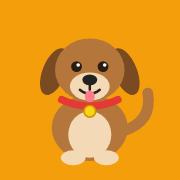
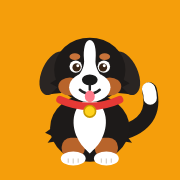
Kvidova škola: Kvido ako bernský salašník (obrázky, ikony, og-image)
Claude-Session: https://claude.ai/code/session_01L2yYueiUDEqLm6arqJrsXt

Changed region(s): [[0.1944, 0.1944, 0.8889, 0.9444]]

diff --git a/kvido/index.html b/kvido/index.html
@@ -316,15 +316,17 @@ const pl = (n, one, few, many) => n === 1 ? one : n >= 2 && n <= 4 ? few : many;
 
 /* ---------- save ---------- */
 const KEY = 'kvidova-skola-v1';
-const DEF = { sound: true, bones: 0, fur: 'brown', owned: ['col_red', 'hat_none', 'gl_none', 'toy_none', 'bed_none'],
+const DEF = { sound: true, bones: 0, fur: 'berner', v2: true, owned: ['col_red', 'hat_none', 'gl_none', 'toy_none', 'bed_none'],
   eq: { col: 'col_red', hat: 'hat_none', gl: 'gl_none', toy: 'toy_none', bed: 'bed_none' }, wins: {}, lvl: {} };
 let S;
 try { S = Object.assign(JSON.parse(JSON.stringify(DEF)), JSON.parse(localStorage.getItem(KEY)) || {}); } catch (e) { S = JSON.parse(JSON.stringify(DEF)); }
+if (!S.v2) { S.fur = 'berner'; S.v2 = true; } // Kvido is a Bernese mountain dog
 const save = () => { try { localStorage.setItem(KEY, JSON.stringify(S)); } catch (e) {} };
 const level = g => S.lvl[g] || 1;
 
 /* ---------- Kvido drawing ---------- */
 const FURS = {
+  berner: { name: 'Salašník', berner: true, fur: '#1d1a19', dark: '#1d1a19', light: '#ffffff' },
   brown: { name: 'Hnědý', fur: '#b5763c', dark: '#7a4a22', light: '#f3d9b5' },
   golden: { name: 'Zlatý', fur: '#e8b04b', dark: '#c4882a', light: '#fff0cf' },
   black: { name: 'Černý', fur: '#3a3330', dark: '#1f1a18', light: '#d9c7b2' },
@@ -371,9 +373,10 @@ function dogSVG(eq = S.eq, furKey = S.fur, cls = '') {
   if (eq.hat === 'hat_party') hat = `<polygon points="100,0 82,46 118,46" fill="#a855f7"/><circle cx="100" cy="2" r="6" fill="#ffd21a"/><circle cx="94" cy="30" r="3" fill="#fff"/><circle cx="104" cy="18" r="3" fill="#ffd21a"/><circle cx="106" cy="38" r="3" fill="#fff"/>`;
   if (eq.hat === 'hat_crown') hat = `<polygon points="74,48 74,20 88,34 100,14 112,34 126,20 126,48" fill="#ffcc1a" stroke="#c99a00" stroke-width="3" stroke-linejoin="round"/><circle cx="100" cy="38" r="4" fill="#e53935"/>`;
   if (eq.hat === 'hat_bow') hat = `<g transform="translate(138 44) rotate(15)"><path d="M0 0 L-16 -11 L-16 11 Z" fill="#ec4899"/><path d="M0 0 L16 -11 L16 11 Z" fill="#ec4899"/><circle r="5" fill="#be185d"/></g>`;
-  if (eq.gl === 'gl_round') gl = `<g fill="rgba(255,255,255,.25)" stroke="#2b2b2b" stroke-width="3.5"><circle cx="84" cy="72" r="13"/><circle cx="116" cy="72" r="13"/></g><path d="M97 72 L103 72" stroke="#2b2b2b" stroke-width="3.5"/>`;
-  if (eq.gl === 'gl_sun') gl = `<path d="M68 64 H98 V76 Q98 86 84 86 Q68 86 68 74Z M102 64 H132 V74 Q132 86 116 86 Q102 86 102 76Z" fill="#1d1d1d"/><path d="M98 68 H102" stroke="#1d1d1d" stroke-width="4"/><path d="M74 68 L82 68" stroke="rgba(255,255,255,.6)" stroke-width="3"/>`;
+  if (eq.gl === 'gl_round') gl = `<g fill="rgba(255,255,255,.25)" stroke="#e53935" stroke-width="3.5"><circle cx="84" cy="72" r="13"/><circle cx="116" cy="72" r="13"/></g><path d="M97 72 L103 72" stroke="#e53935" stroke-width="3.5"/>`;
+  if (eq.gl === 'gl_sun') gl = `<path d="M68 64 H98 V76 Q98 86 84 86 Q68 86 68 74Z M102 64 H132 V74 Q132 86 116 86 Q102 86 102 76Z" fill="#1d1d1d" stroke="#ffd21a" stroke-width="2.5"/><path d="M98 68 H102" stroke="#ffd21a" stroke-width="4"/><path d="M74 68 L82 68" stroke="rgba(255,255,255,.6)" stroke-width="3"/>`;
   const spot = f.spot ? `<ellipse cx="117" cy="68" rx="15" ry="13" fill="${f.spot}" opacity=".9"/>` : '';
+  if (f.berner) return bernerSVG(cls, bed, toy, gl, hat, col);
   const tri = f.tri ? `<ellipse cx="84" cy="66" rx="5" ry="3" fill="${f.tri}"/><ellipse cx="116" cy="66" rx="5" ry="3" fill="${f.tri}"/>` : '';
   return `<svg class="dog ${cls}" viewBox="0 0 200 200" aria-hidden="true">
     ${bed}
@@ -396,6 +399,41 @@ function dogSVG(eq = S.eq, furKey = S.fur, cls = '') {
       ${gl}${hat}
     </g>
     <path d="M66 112 Q100 128 134 112" stroke="${col}" stroke-width="9" fill="none" stroke-linecap="round"/>
+    <circle cx="100" cy="126" r="7" fill="#ffd21a" stroke="#c99a00" stroke-width="2"/>
+    ${toy}
+  </svg>`;
+}
+/* Bernese mountain dog: black coat, white blaze + chest + paws + tail tip, rust brows, cheeks and legs */
+function bernerSVG(cls, bed, toy, gl, hat, col) {
+  const K = '#1d1a19', R = '#b8642b', W = '#ffffff';
+  return `<svg class="dog ${cls}" viewBox="0 0 200 200" aria-hidden="true">
+    ${bed}
+    <g class="tail"><path d="M138 152 Q182 140 172 100" stroke="${K}" stroke-width="18" fill="none" stroke-linecap="round"/>
+      <path d="M173 110 Q173 104 171 99" stroke="${W}" stroke-width="16" fill="none" stroke-linecap="round"/></g>
+    <path d="M54 146 L46 152 L55 156 L49 164 L60 162 Z M146 146 L154 152 L145 156 L151 164 L140 162 Z" fill="${K}"/>
+    <ellipse cx="100" cy="146" rx="48" ry="41" fill="${K}"/>
+    <rect x="66" y="158" width="28" height="24" rx="11" fill="${R}"/><rect x="106" y="158" width="28" height="24" rx="11" fill="${R}"/>
+    <path d="M100 110 C80 116 76 140 85 158 C89 167 95 172 100 177 C105 172 111 167 115 158 C124 140 120 116 100 110 Z" fill="${W}"/>
+    <ellipse cx="80" cy="183" rx="15" ry="8.5" fill="${W}"/><ellipse cx="120" cy="183" rx="15" ry="8.5" fill="${W}"/>
+    <path d="M74 183 V188 M80 183 V189 M86 183 V188 M114 183 V188 M120 183 V189 M126 183 V188" stroke="#d9d2c8" stroke-width="1.5"/>
+    <g class="head">
+      <ellipse cx="57" cy="80" rx="15" ry="28" fill="#2a2523" transform="rotate(24 57 80)"/>
+      <ellipse cx="143" cy="80" rx="15" ry="28" fill="#2a2523" transform="rotate(-24 143 80)"/>
+      <path d="M62 86 L52 92 L61 97 L53 105 L66 104 Z M138 86 L148 92 L139 97 L147 105 L134 104 Z" fill="${K}"/>
+      <ellipse cx="100" cy="76" rx="43" ry="39" fill="${K}"/>
+      <ellipse cx="76" cy="96" rx="14" ry="11" fill="${R}"/><ellipse cx="124" cy="96" rx="14" ry="11" fill="${R}"/>
+      <path d="M100 40 C94 40 92 52 93 63 C94 71 90 78 85 85 L115 85 C110 78 106 71 107 63 C108 52 106 40 100 40 Z" fill="${W}"/>
+      <ellipse cx="100" cy="97" rx="25" ry="18" fill="${W}"/>
+      <ellipse cx="82" cy="60" rx="6.5" ry="4" fill="#c8733a"/><ellipse cx="118" cy="60" rx="6.5" ry="4" fill="#c8733a"/>
+      <circle cx="83" cy="72" r="7.5" fill="${W}"/><circle cx="117" cy="72" r="7.5" fill="${W}"/>
+      <circle cx="84" cy="73" r="5" fill="#3a2414"/><circle cx="116" cy="73" r="5" fill="#3a2414"/>
+      <circle cx="85.5" cy="71" r="1.8" fill="${W}"/><circle cx="117.5" cy="71" r="1.8" fill="${W}"/>
+      <ellipse cx="100" cy="88" rx="9.5" ry="6.5" fill="#1a1a1a"/>
+      <path d="M100 94 V100 M88 100 Q100 110 112 100" stroke="#222" stroke-width="3" fill="none" stroke-linecap="round"/>
+      <ellipse cx="100" cy="108" rx="6" ry="7" fill="#ff7a8a"/>
+      ${gl}${hat}
+    </g>
+    <path d="M64 112 Q100 128 136 112" stroke="${col}" stroke-width="9" fill="none" stroke-linecap="round"/>
     <circle cx="100" cy="126" r="7" fill="#ffd21a" stroke="#c99a00" stroke-width="2"/>
     ${toy}
   </svg>`;
